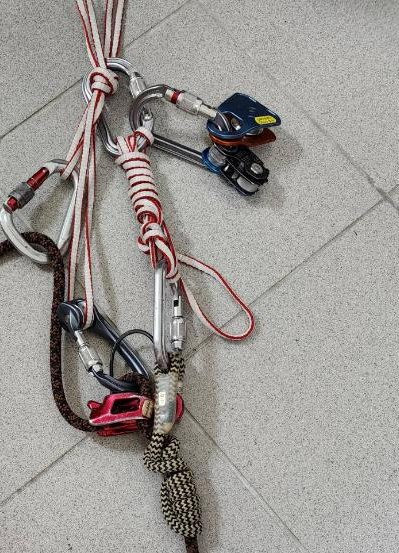
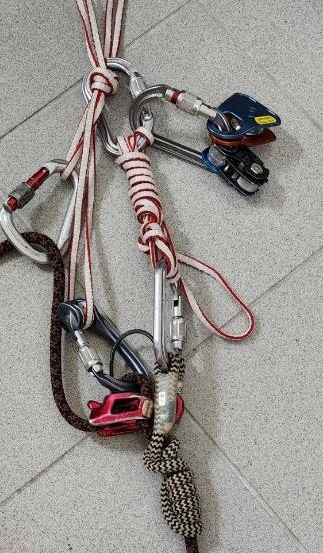
第20頁各式擔架照片下方文字放大醒目（0.42→0.66em、白色粗體、加陰影）

diff --git a/index.html b/index.html
@@ -559,9 +559,9 @@
           </div>
         </div>
         <div style="display:flex;gap:10px;justify-content:center;align-items:flex-end;">
-          <figure style="margin:0;text-align:center;flex:1;"><img src="images/p13-stretch-4.jpeg" style="max-height:330px;max-width:100%;object-fit:contain;border-radius:12px;border:1px solid rgba(255,255,255,0.14);box-shadow:0 8px 24px rgba(0,0,0,0.5);"><figcaption style="font-size:0.42em;color:#9fb0bd;margin-top:6px;">RollUP · 8.4kg</figcaption></figure>
-          <figure style="margin:0;text-align:center;flex:1;"><img src="images/p13-stretch-2.jpeg" style="max-height:330px;max-width:100%;object-fit:contain;border-radius:12px;border:1px solid rgba(255,255,255,0.14);box-shadow:0 8px 24px rgba(0,0,0,0.5);"><figcaption style="font-size:0.42em;color:#9fb0bd;margin-top:6px;">SLIX · 9.5kg</figcaption></figure>
-          <figure style="margin:0;text-align:center;flex:1;"><img src="images/p13-stretch-3.jpeg" style="max-height:330px;max-width:100%;object-fit:contain;border-radius:12px;border:1px solid rgba(255,255,255,0.14);box-shadow:0 8px 24px rgba(0,0,0,0.5);"><figcaption style="font-size:0.42em;color:#9fb0bd;margin-top:6px;">SKED · 8.4kg</figcaption></figure>
+          <figure style="margin:0;text-align:center;flex:1;"><img src="images/p13-stretch-4.jpeg" style="max-height:330px;max-width:100%;object-fit:contain;border-radius:12px;border:1px solid rgba(255,255,255,0.14);box-shadow:0 8px 24px rgba(0,0,0,0.5);"><figcaption style="font-size:0.66em;color:#fff;font-weight:900;margin-top:10px;text-shadow:0 2px 8px rgba(0,0,0,0.6);">RollUP · 8.4kg</figcaption></figure>
+          <figure style="margin:0;text-align:center;flex:1;"><img src="images/p13-stretch-2.jpeg" style="max-height:330px;max-width:100%;object-fit:contain;border-radius:12px;border:1px solid rgba(255,255,255,0.14);box-shadow:0 8px 24px rgba(0,0,0,0.5);"><figcaption style="font-size:0.66em;color:#fff;font-weight:900;margin-top:10px;text-shadow:0 2px 8px rgba(0,0,0,0.6);">SLIX · 9.5kg</figcaption></figure>
+          <figure style="margin:0;text-align:center;flex:1;"><img src="images/p13-stretch-3.jpeg" style="max-height:330px;max-width:100%;object-fit:contain;border-radius:12px;border:1px solid rgba(255,255,255,0.14);box-shadow:0 8px 24px rgba(0,0,0,0.5);"><figcaption style="font-size:0.66em;color:#fff;font-weight:900;margin-top:10px;text-shadow:0 2px 8px rgba(0,0,0,0.6);">SKED · 8.4kg</figcaption></figure>
         </div>
       </div>
     </section>
